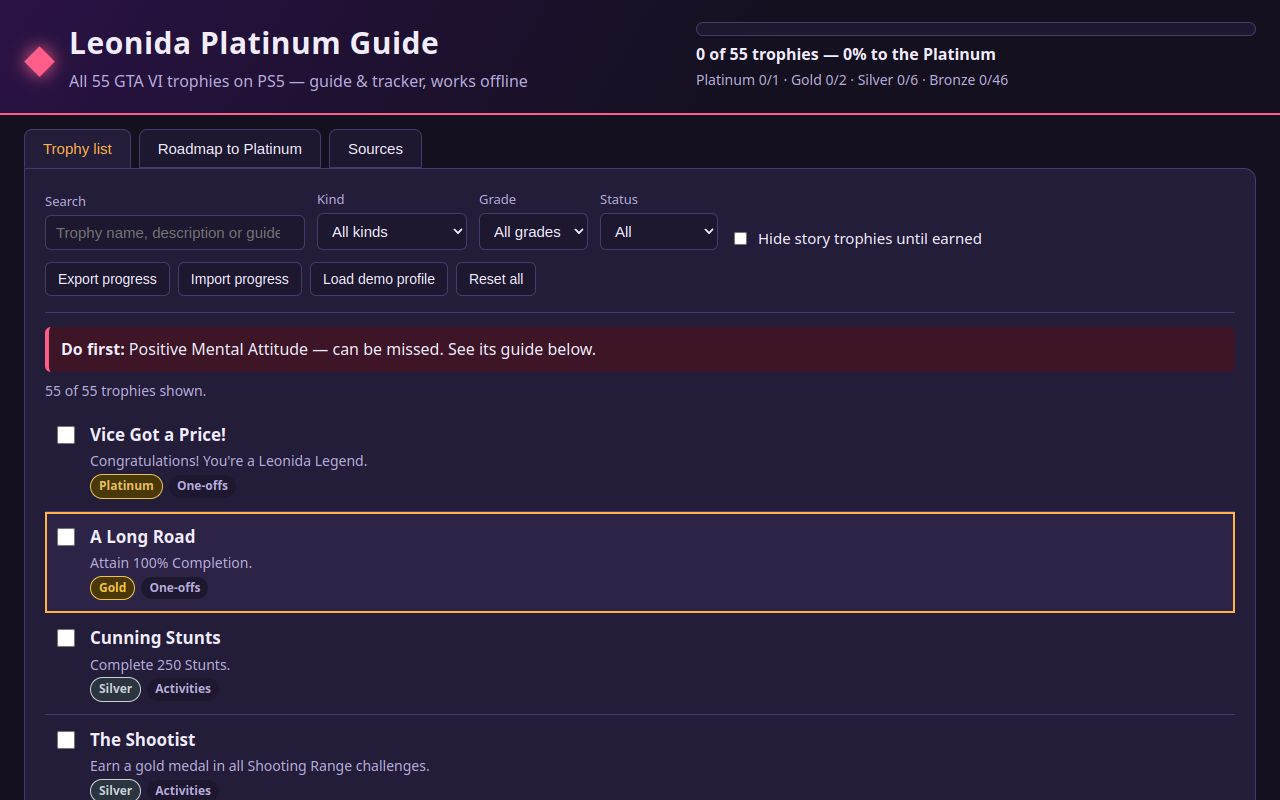
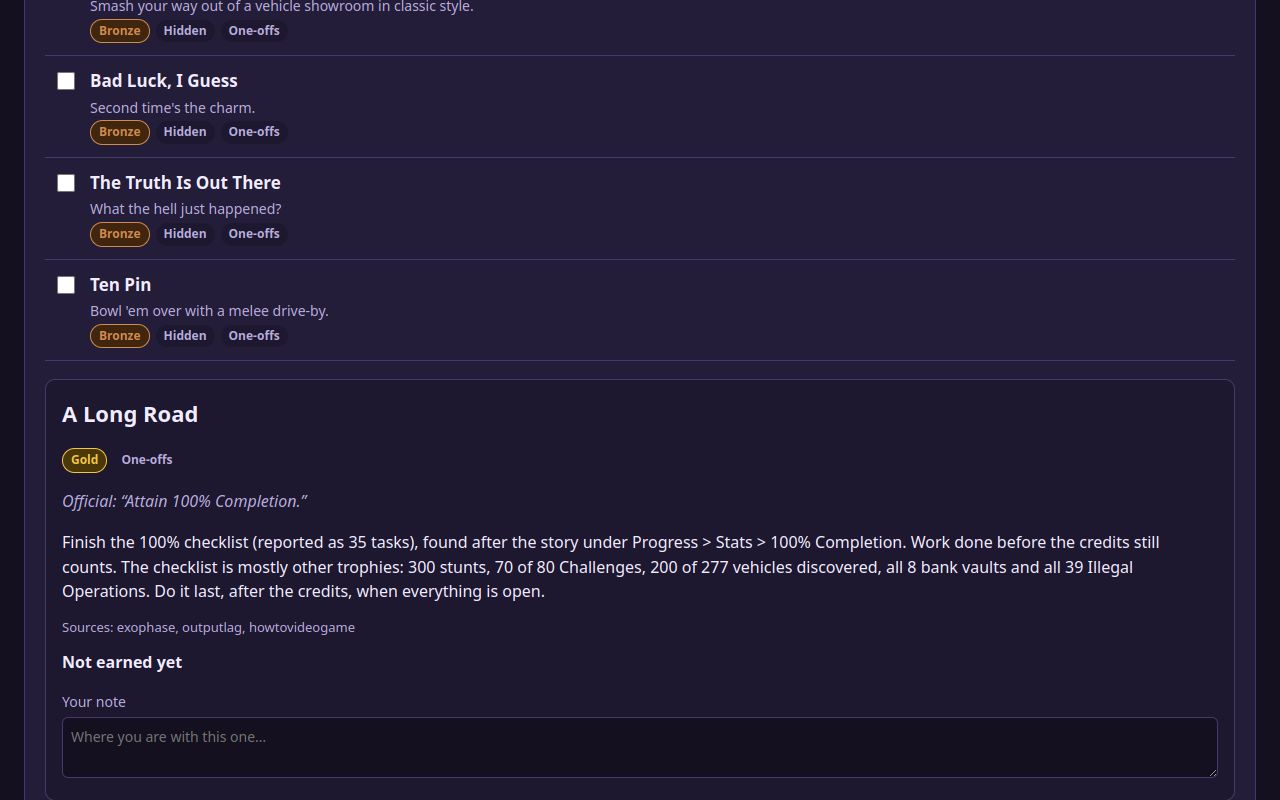
Fix shot modes (detail scroll, roadmap names) and search-blur click loss

diff --git a/app/app.js b/app/app.js
@@ -321,7 +321,17 @@ function applyShotMode() {
     state.spoiler = false;
     setView('list');
     selectedId = 'a-long-road';
+    // The detail panel sits below the trophy list, so bring it into view
+    // after the first render — otherwise a screenshot of this mode shows
+    // only the list and never the guide itself.
+    setTimeout(function () {
+      const d = el('detail');
+      if (d && d.scrollIntoView) d.scrollIntoView({ block: 'nearest' });
+    }, 0);
   } else if (shot === 'roadmap') {
+    // A roadmap must name its trophies: show the story names here even
+    // though the spoiler setting hides them in the list by default.
+    state.spoiler = false;
     setView('roadmap');
   } else if (shot === 'progress') {
     state.demo = true;
@@ -334,7 +344,13 @@ function bind() {
   document.querySelectorAll('.view-btn').forEach(function (b) {
     b.addEventListener('click', function () { setView(b.dataset.view); });
   });
-  ['search', 'filterKind', 'filterGrade', 'filterStatus'].forEach(function (id) {
+  // Search filters live on every keystroke (input only). A 'change'
+  // listener on the search box would re-render the list when the box loses
+  // focus — exactly as the user clicks a row — replacing the row under the
+  // mouse before mouseup, which swallows that click. Selects keep both
+  // events: their change fires from picking an option, not from a blur.
+  el('search').addEventListener('input', renderList);
+  ['filterKind', 'filterGrade', 'filterStatus'].forEach(function (id) {
     el(id).addEventListener('input', renderList);
     el(id).addEventListener('change', renderList);
   });
